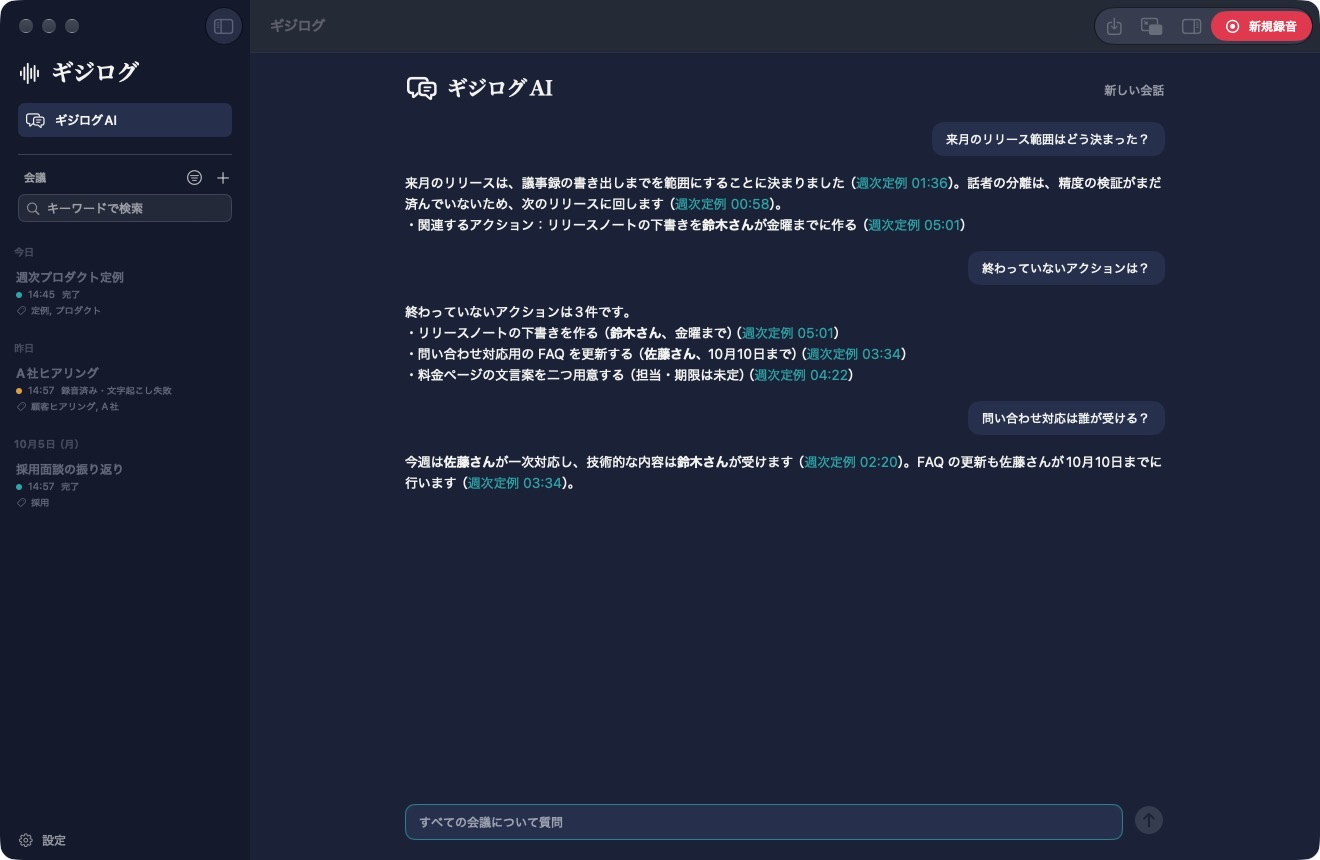
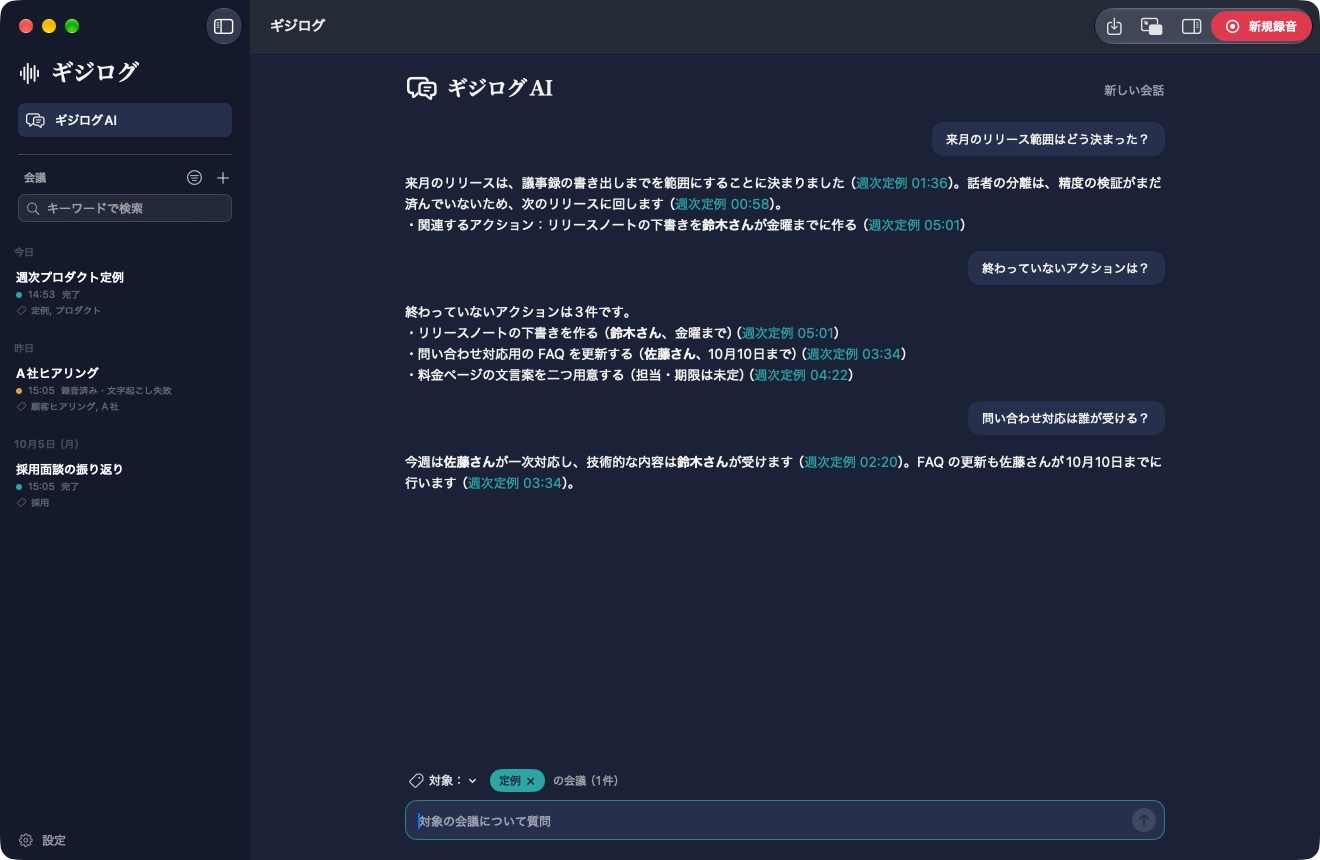
Retake the ギジログAI screenshot with a tag chosen as its scope and the send button in the field

diff --git a/README.en.md b/README.en.md
@@ -109,7 +109,7 @@ Inside the open meeting, the minutes (the magnifier on the date line, or ⌥⌘F
 ## Ask Gijilog AI about your meetings
 
 <p align="center">
-  <img src="docs/images/ask.jpg" alt="ギジログAI answering questions about every meeting, with links to the meetings and utterances" width="720">
+  <img src="docs/images/ask.jpg" alt="ギジログAI answering questions about every meeting, or those with chosen tags, with links to the meetings and utterances" width="720">
 </p>
 
 In the full window, press ギジログAI (Gijilog AI) at the top of the meeting list: the main view becomes the conversation. Type a question and press Return; "この会議" (this meeting) means the meeting open just before. Choose tags under 対象 (Scope) above the question field to have it answer from only the meetings with any of them; each chosen tag has an × to drop it, and with none it reads every meeting. The AI searches and reads the minutes and transcripts of the meetings in scope as it needs, shows what it is reading, and can be stopped with 止める. Answers link to the meetings and utterances they rest on: a link opens the meeting and outlines the utterance in its transcript, and ギジログAI brings the conversation back. Follow-up questions build on the conversation until 新しい会話 (New conversation) or quitting the app. It only reads; nothing in a meeting is changed. It uses the minutes model from Settings, and it reads meetings and transcripts that the MCP settings keep from AI apps.

diff --git a/README.md b/README.md
@@ -136,7 +136,7 @@ open dist/ギジログ.app
 ### ギジログAI に質問する
 
 <p align="center">
-  <img src="docs/images/ask.jpg" alt="ギジログAI（すべての会議について質問し、答えのリンクから会議と発言を開く）" width="720">
+  <img src="docs/images/ask.jpg" alt="ギジログAI（すべての会議、またはタグで絞った会議について質問し、答えのリンクから会議と発言を開く）" width="720">
 </p>
 
 - 大きい画面の左上、アプリ名の下にある「ギジログAI」を押すと、真ん中が会話の画面になります。聞きたいことを入力して Return を押します。「この会議の要点は？」と聞くと、直前まで開いていた会議について答えます。
